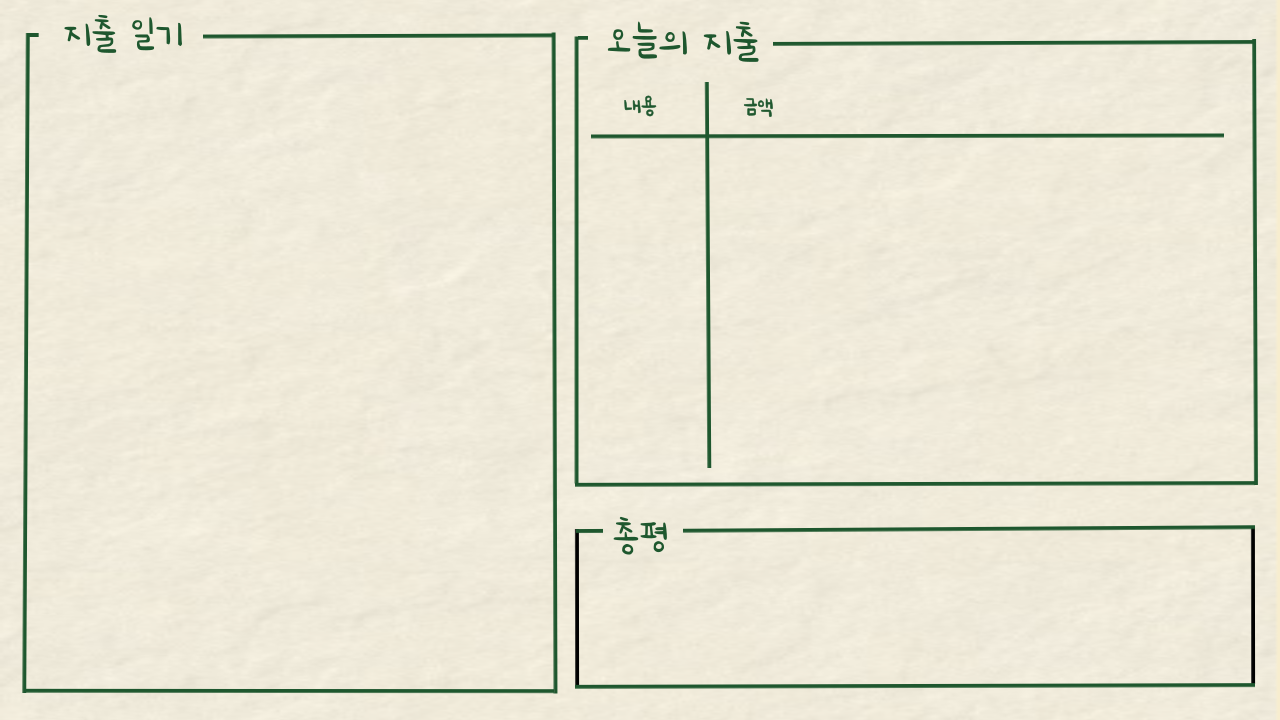
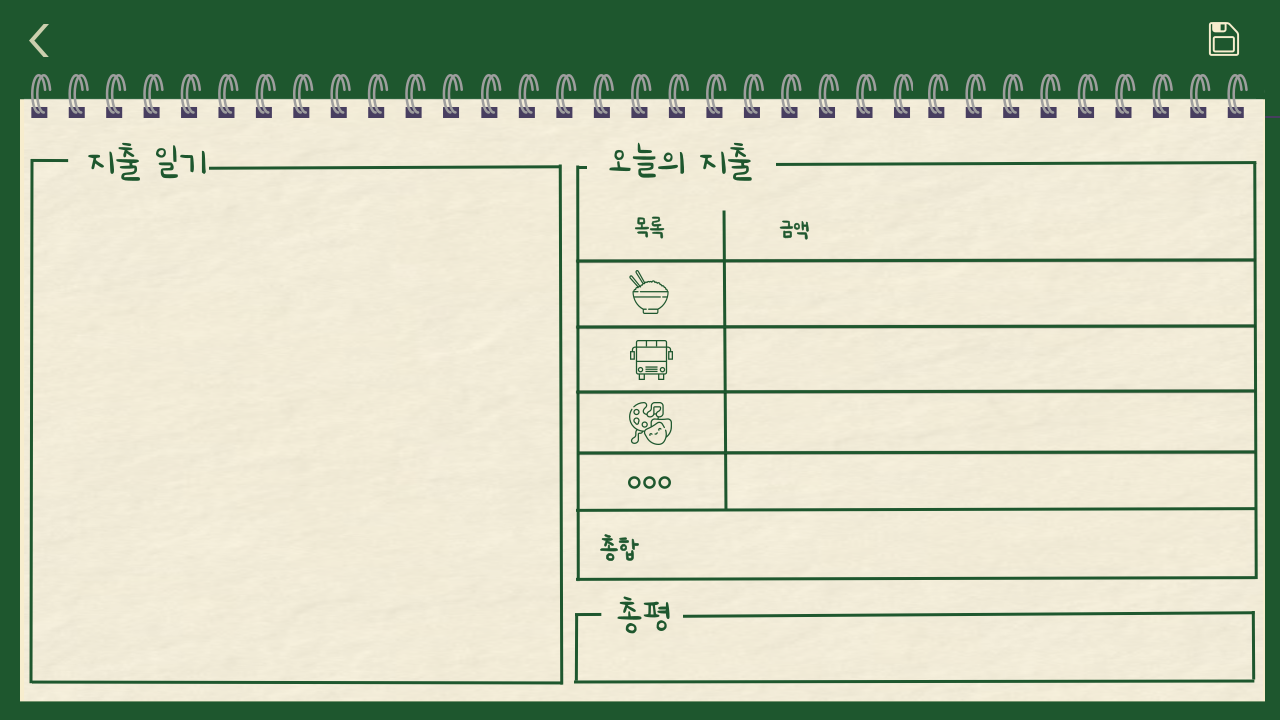
텍스트 입력 받기 및 배경 수정

Changed region(s): [[0.0, 0.0, 1.0, 1.0]]

diff --git a/MemoMoney/src/MemoMoney/Memo.java b/MemoMoney/src/MemoMoney/Memo.java
@@ -14,15 +14,50 @@ public class Memo extends JFrame {
             super.paintComponent(g);
         }
     };
-    // km
+    
+    private JTextArea[] textAreas = new JTextArea[4];
+    private JScrollPane[] scrollPanes = new JScrollPane[4];
+   
     Memo() {
         setTitle("MemoMoney");
 
         JTextArea textArea = new JTextArea();
         JScrollPane scrollPane = new JScrollPane(textArea);
-        scrollPane.setBounds(20,30,600,700);
+        Font font = new Font("나눔손글씨 장미체", Font.PLAIN, 30);
+        textArea.setFont(font);
+
+        
+        // 레이아웃 매니저 설정
+        p1.setLayout(null);
         p1.add(scrollPane);
+        
+        scrollPane.setBounds(45,185,505,480);
+        scrollPane.setOpaque(false);
+        scrollPane.getViewport().setOpaque(false);
+        scrollPane.setBorder(null);
+        textArea.setOpaque(false);
         scrollPane.setVisible(true);
+        
+        for (int i = 0; i < 4; i++) {
+            textAreas[i] = new JTextArea();
+            textAreas[i].setFont(font);
+            scrollPanes[i] = new JScrollPane(textAreas[i]);
+
+            // Set location and size for each JScrollPane
+            int x = (i < 4) ? 740 : 600;
+            int y = (i % 4) * 60 + 280;
+            scrollPanes[i].setBounds(x, y, 500, 40);
+
+            // Customize JScrollPane appearance
+            scrollPanes[i].setOpaque(false);
+            scrollPanes[i].getViewport().setOpaque(false);
+            scrollPanes[i].setBorder(null);
+            textAreas[i].setOpaque(false);
+
+            p1.add(scrollPanes[i]);
+        }
+
+        p1.setLayout(null);
         
         add(p1);
         setSize(1290, 750);

diff --git a/MemoMoney/src/MemoMoney/Database.java b/MemoMoney/src/MemoMoney/Database.java
@@ -7,7 +7,7 @@ public class Database {
 	Statement stmt = null;
 	String url = "jdbc:mysql://localhost/memomoney?serverTimezone=Asia/Seoul";	
 	String user = "root";
-	String passwd = "1011";	
+	String passwd = "0000";	
 
 	Database() {//데이터베이스에 연결
 		try {
